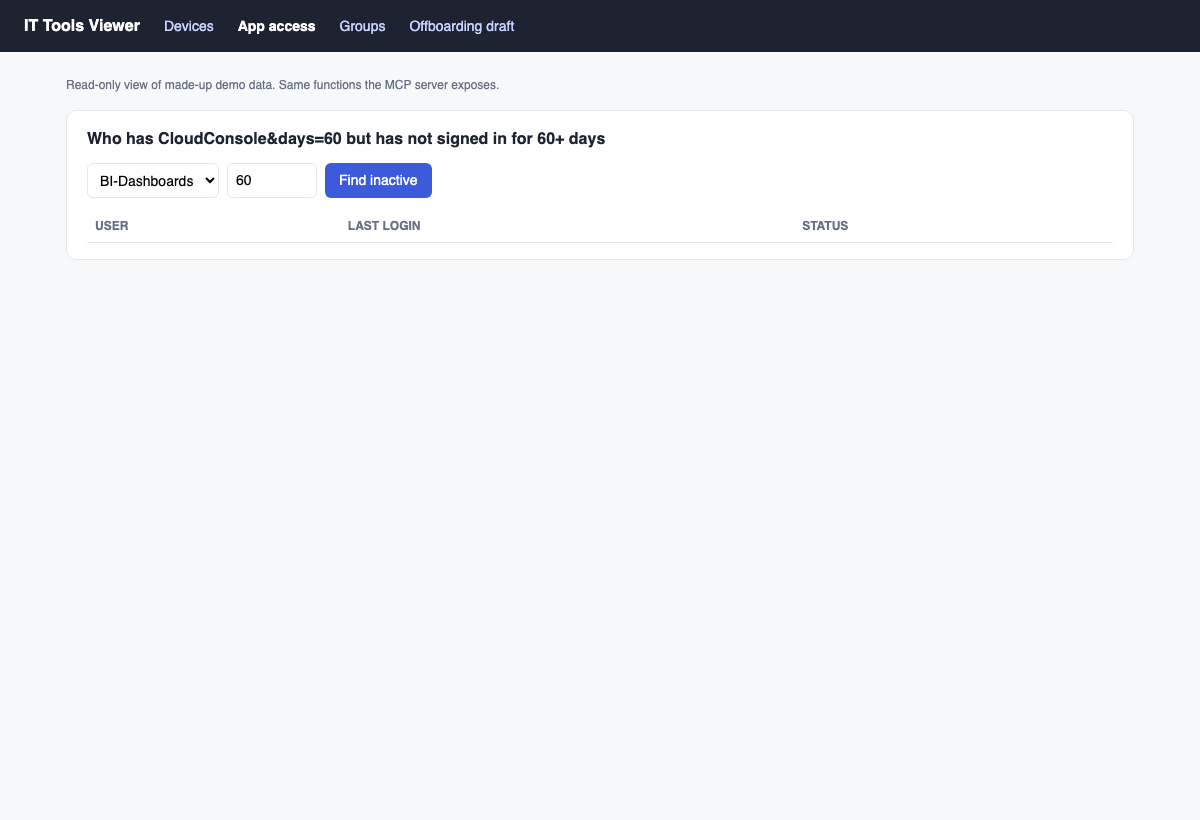
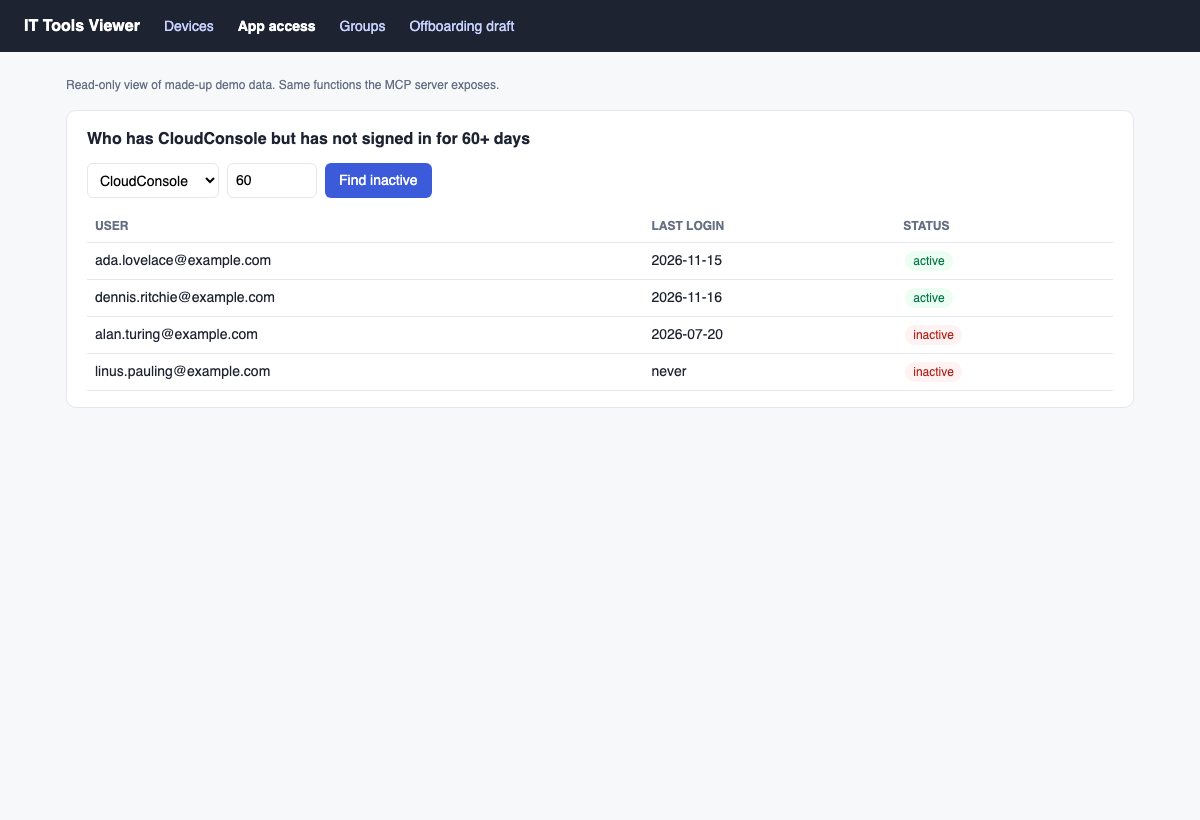
Viewer: flag unknown app names instead of showing an empty table
The app-access screenshot had been taken with an encoded '&', so the whole
query string was read as the app name. The viewer now says the app is
unknown, falls back to a real app, and uses the canonical app name in the
heading and dropdown. Adds a test and retakes the screenshot.

diff --git a/src/mcp_it_tools/viewer.py b/src/mcp_it_tools/viewer.py
@@ -64,6 +64,12 @@ def access_view(a, q) -> str:
     app = q.get("app", [apps[0]])[0]
     days = int(q.get("days", ["60"])[0])
     res = tools.find_inactive_app_users(a, app, days)
+    if "error" in res:
+        msg = f"Unknown app '{esc(app)}'. Pick one of: {esc(', '.join(apps))}"
+        res = tools.find_inactive_app_users(a, apps[0], days)  # show a real app instead of an empty table
+    else:
+        msg = ""
+    app = res["app"]  # canonical spelling, so the heading and dropdown match the table
     opts = "".join(f"<option {'selected' if x == app else ''}>{esc(x)}</option>" for x in apps)
     form = (f"<form><select name=app>{opts}</select><input name=days type=number value={days} style='width:90px'>"
             f"<button>Find inactive</button></form>")
@@ -74,7 +80,8 @@ def access_view(a, q) -> str:
         + "</td></tr>"
         for x in a.list_app_access() if x.app == res.get("app"))
     return (f"<div class=card><h2>Who has {esc(app)} but has not signed in for {days}+ days</h2>{form}"
-            f"<table><tr><th>User</th><th>Last login</th><th>Status</th></tr>{rows}</table></div>")
+            + (f"<div class='pill bad' style='margin-bottom:10px'>{msg}</div>" if msg else "")
+            + f"<table><tr><th>User</th><th>Last login</th><th>Status</th></tr>{rows}</table></div>")
 
 
 def groups_view(a) -> str:

diff --git a/tests/test_viewer.py b/tests/test_viewer.py
@@ -16,3 +16,21 @@ def test_viewer_pages():
             assert text in body, path
     finally:
         srv.shutdown()
+
+
+def test_viewer_access_query_params():
+    srv = ThreadingHTTPServer(("127.0.0.1", 0), Handler)
+    threading.Thread(target=srv.serve_forever, daemon=True).start()
+    base = f"http://127.0.0.1:{srv.server_address[1]}"
+    try:
+        # app and days arrive as separate parameters; lower-case app still matches
+        body = urllib.request.urlopen(base + "/access?app=cloudconsole&days=60").read().decode()
+        assert "Who has CloudConsole but has not signed in for 60+ days" in body
+        assert "<option selected>CloudConsole</option>" in body
+        assert "alan.turing@example.com" in body and "pill bad'>inactive" in body
+        # an unknown app (e.g. a mis-encoded URL) says so instead of an empty table
+        body = urllib.request.urlopen(base + "/access?app=CloudConsole%26days%3D60").read().decode()
+        assert "Unknown app" in body
+        assert "<td>" in body  # falls back to a real app's rows
+    finally:
+        srv.shutdown()
